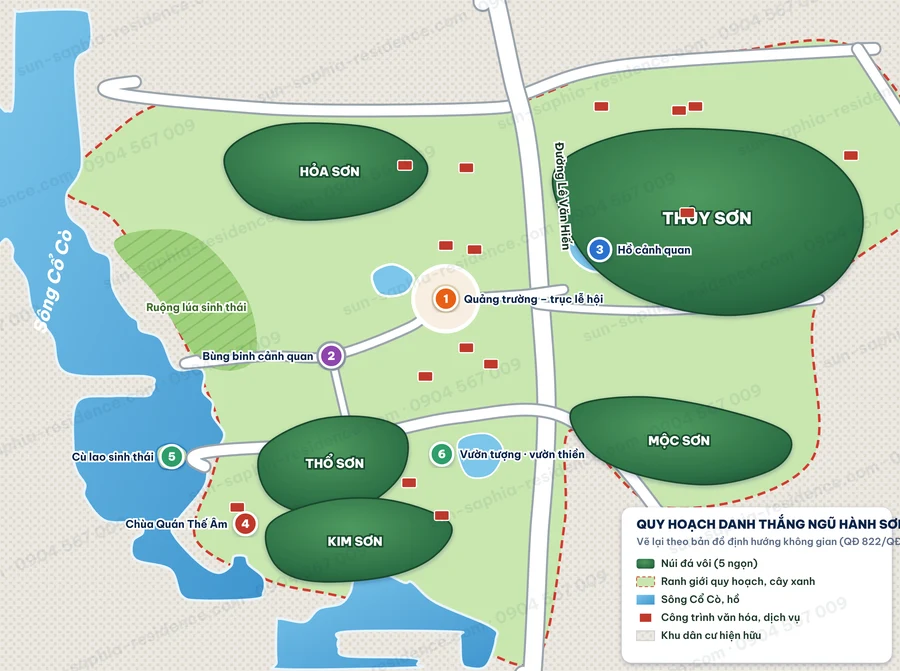
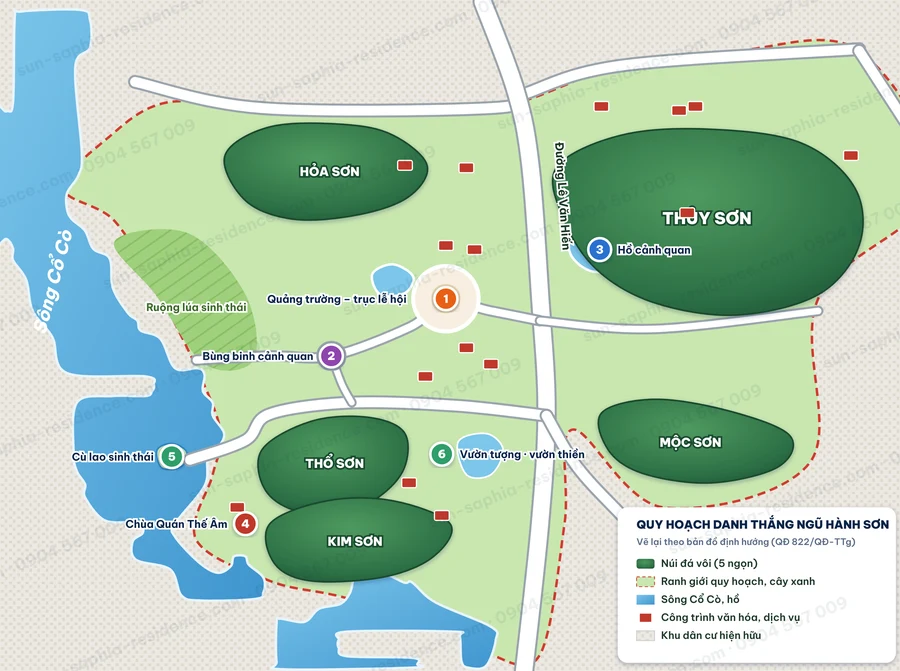
Sơ đồ Ngũ Hành Sơn: sửa đầu đường bị cong, đường không cắt qua núi
Claude-Session: https://claude.ai/code/session_01QqqhqeJL7dLdZQGmjqHGDV

diff --git a/landing/sun-saphia/seo/so-do-nhs/ve.py b/landing/sun-saphia/seo/so-do-nhs/ve.py
@@ -6,7 +6,9 @@ def P(pts): return 'M'+' L'.join('%d %d'%p for p in pts)+' Z'
 def S(pts,close=True):
     n=len(pts); d='M%.1f %.1f'%pts[0]
     for i in range(n if close else n-1):
-        p0=pts[(i-1)%n]; p1=pts[i]; p2=pts[(i+1)%n]; p3=pts[(i+2)%n]
+        p1=pts[i]; p2=pts[(i+1)%n]
+        p0=pts[(i-1)%n] if (close or i>0) else p1
+        p3=pts[(i+2)%n] if (close or i+2<n) else p2
         c1=(p1[0]+(p2[0]-p0[0])/6,p1[1]+(p2[1]-p0[1])/6); c2=(p2[0]-(p3[0]-p1[0])/6,p2[1]-(p3[1]-p1[1])/6)
         d+=' C%.1f %.1f %.1f %.1f %.1f %.1f'%(c1+c2+p2)
     return d+(' Z' if close else '')
@@ -38,17 +40,18 @@ def road(pts,w):
 road([(165,160),(320,192),(600,192),(640,175),(760,140),(1050,120)],12)       # đường phía bắc
 road([(590,62),(630,170),(648,260),(660,420),(668,560),(660,700),(640,885)],20) # Lê Văn Hiến
 road([(1050,122),(1120,230),(1190,340)],12)                                    # đường phía đông
-road([(250,630),(420,600),(560,570),(690,570),(800,680),(830,760)],12)         # trục ngang phía nam
-road([(240,500),(330,495),(405,495),(500,460),(545,430),(640,420),(660,420)],9)
-road([(660,430),(800,440),(1000,425)],8)
-road([(405,495),(420,560),(430,600)],7)
+road([(232,622),(300,598),(330,566),(430,552),(560,556),(668,568)],12)         # trục ngang phía nam
+road([(668,568),(705,630),(760,690),(830,760)],12)         # đường chéo đông nam
+road([(240,500),(330,495),(405,495),(500,460),(545,430),(600,440),(660,452)],9)
+road([(660,452),(800,462),(1000,440)],8)
+road([(405,495),(418,530),(430,552)],7)
 # quảng trường & bùng binh
 o.append('<circle cx="545" cy="425" r="40" fill="#f7efe0" stroke="#fff" stroke-width="5"/><circle cx="545" cy="425" r="18" fill="#e8d5b0"/>')
 o.append('<circle cx="405" cy="495" r="17" fill="#fff" stroke="#9aa4ad" stroke-width="3"/>')
 # núi
 MTS={'THỦY SƠN':[(680,265),(760,225),(870,218),(980,235),(1045,290),(1050,360),(1000,420),(900,445),(800,430),(730,390),(690,330)],
      'HỎA SƠN':[(275,250),(330,215),(420,212),(480,225),(522,262),(500,300),(440,322),(360,328),(300,305)],
-     'MỘC SƠN':[(700,560),(780,545),(880,560),(962,590),(950,630),(870,652),(780,640),(720,610)],
+     'MỘC SƠN':[(735,565),(800,548),(890,562),(965,592),(952,630),(872,650),(790,640),(745,612)],
      'THỔ SƠN':[(320,610),(380,575),(450,570),(495,590),(490,640),(440,680),(370,686),(325,660)],
      'KIM SƠN':[(330,700),(400,672),(480,672),(550,700),(530,740),(470,765),(380,770),(335,748)]}
 for n,pts in MTS.items():
@@ -67,16 +70,16 @@ lab(240,440,'Ruộng lúa sinh thái',13,'#3d6b2a')
 def badge(x,y,num,t,c,a='start',dx=22):
     o.append(f'<circle cx="{x}" cy="{y}" r="14" fill="{c}" stroke="#fff" stroke-width="3" filter="url(#sh)"/><text x="{x}" y="{y+5}" text-anchor="middle" style="font:900 14px {F}" fill="#fff">{num}</text>')
     lab(x+(dx if a=='start' else -dx),y+5,t,13,'#0b2447',a)
-badge(545,425,'1','Quảng trường – trục lễ hội','#E96118')
+badge(545,425,'1','Quảng trường – trục lễ hội','#E96118','end',dx=48)
 badge(405,495,'2','Bùng binh cảnh quan','#8e44ad','end')
 badge(733,365,'3','Hồ cảnh quan','#2a6fd0')
 badge(300,700,'4','Chùa Quán Thế Âm','#c0392b','end')
 badge(210,618,'5','Cù lao sinh thái','#2f9e6a','end')
 badge(540,615,'6','Vườn tượng · vườn thiền','#2f9e6a')
 # chú giải + tiêu đề
-o.append(f'<g filter="url(#sh)"><rect x="760" y="680" width="330" height="190" rx="12" fill="#fff"/></g>')
-o.append(f'<text x="778" y="706" style="font:900 15px {F}" fill="#0b2447">QUY HOẠCH DANH THẮNG NGŨ HÀNH SƠN</text>')
-o.append(f'<text x="778" y="726" style="font:600 12px {F}" fill="#5b6b85">Vẽ lại theo bản đồ định hướng không gian (QĐ 822/QĐ-TTg)</text>')
+o.append(f'<g filter="url(#sh)"><rect x="755" y="680" width="340" height="190" rx="12" fill="#fff"/></g>')
+o.append(f'<text x="778" y="706" style="font:900 14px {F}" fill="#0b2447">QUY HOẠCH DANH THẮNG NGŨ HÀNH SƠN</text>')
+o.append(f'<text x="778" y="726" style="font:600 11px {F}" fill="#5b6b85">Vẽ lại theo bản đồ định hướng (QĐ 822/QĐ-TTg)</text>')
 items=[('<rect x="0" y="-9" width="22" height="12" rx="3" fill="url(#mt)"/>','Núi đá vôi (5 ngọn)'),('<rect x="0" y="-9" width="22" height="12" fill="#c9e7b0" stroke="#d23b2f" stroke-dasharray="4 3"/>','Ranh giới quy hoạch, cây xanh'),
        ('<rect x="0" y="-9" width="22" height="12" fill="url(#rv)"/>','Sông Cổ Cò, hồ'),('<rect x="4" y="-8" width="14" height="10" fill="#c0392b"/>','Công trình văn hóa, dịch vụ'),('<rect x="0" y="-9" width="22" height="12" fill="url(#urb)" stroke="#ccc"/>','Khu dân cư hiện hữu')]
 for i,(sw,t) in enumerate(items):
